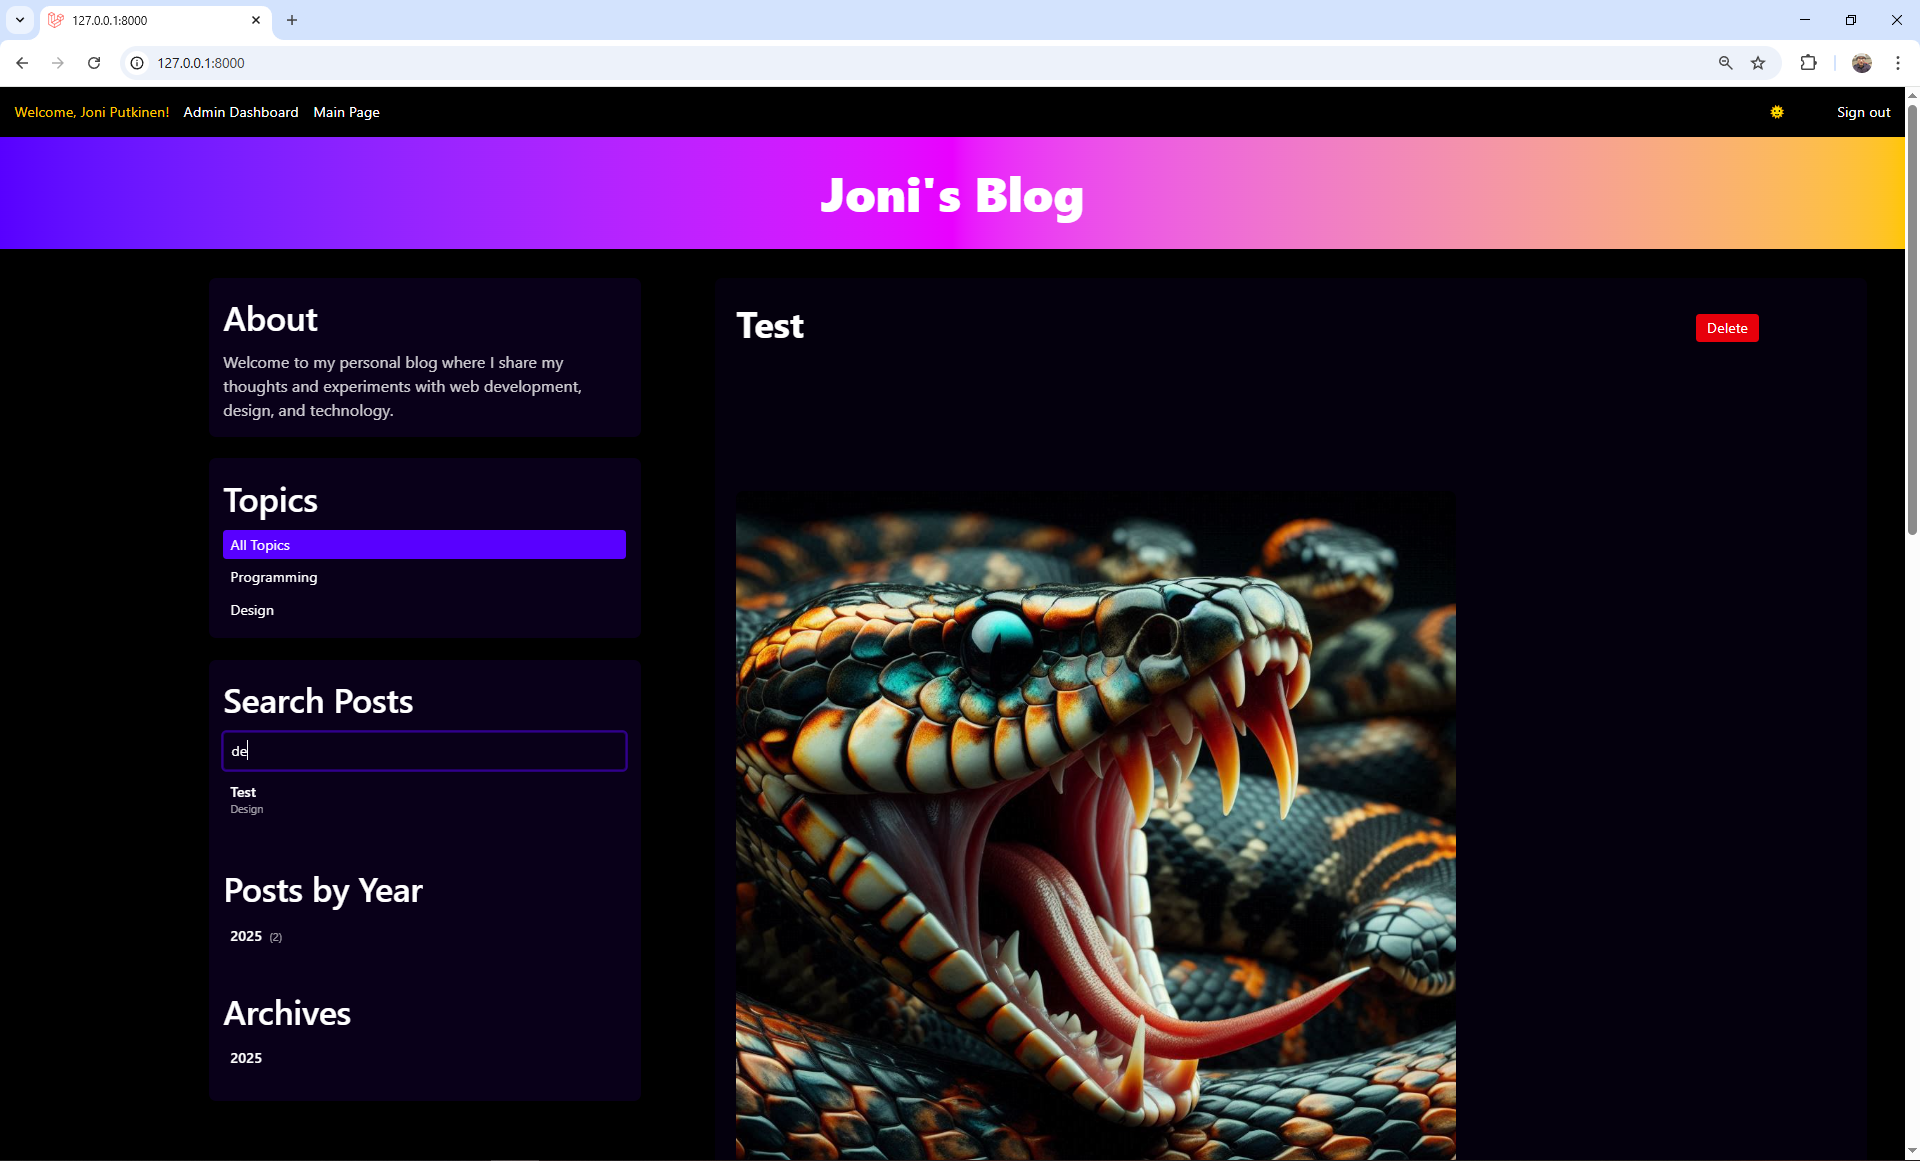
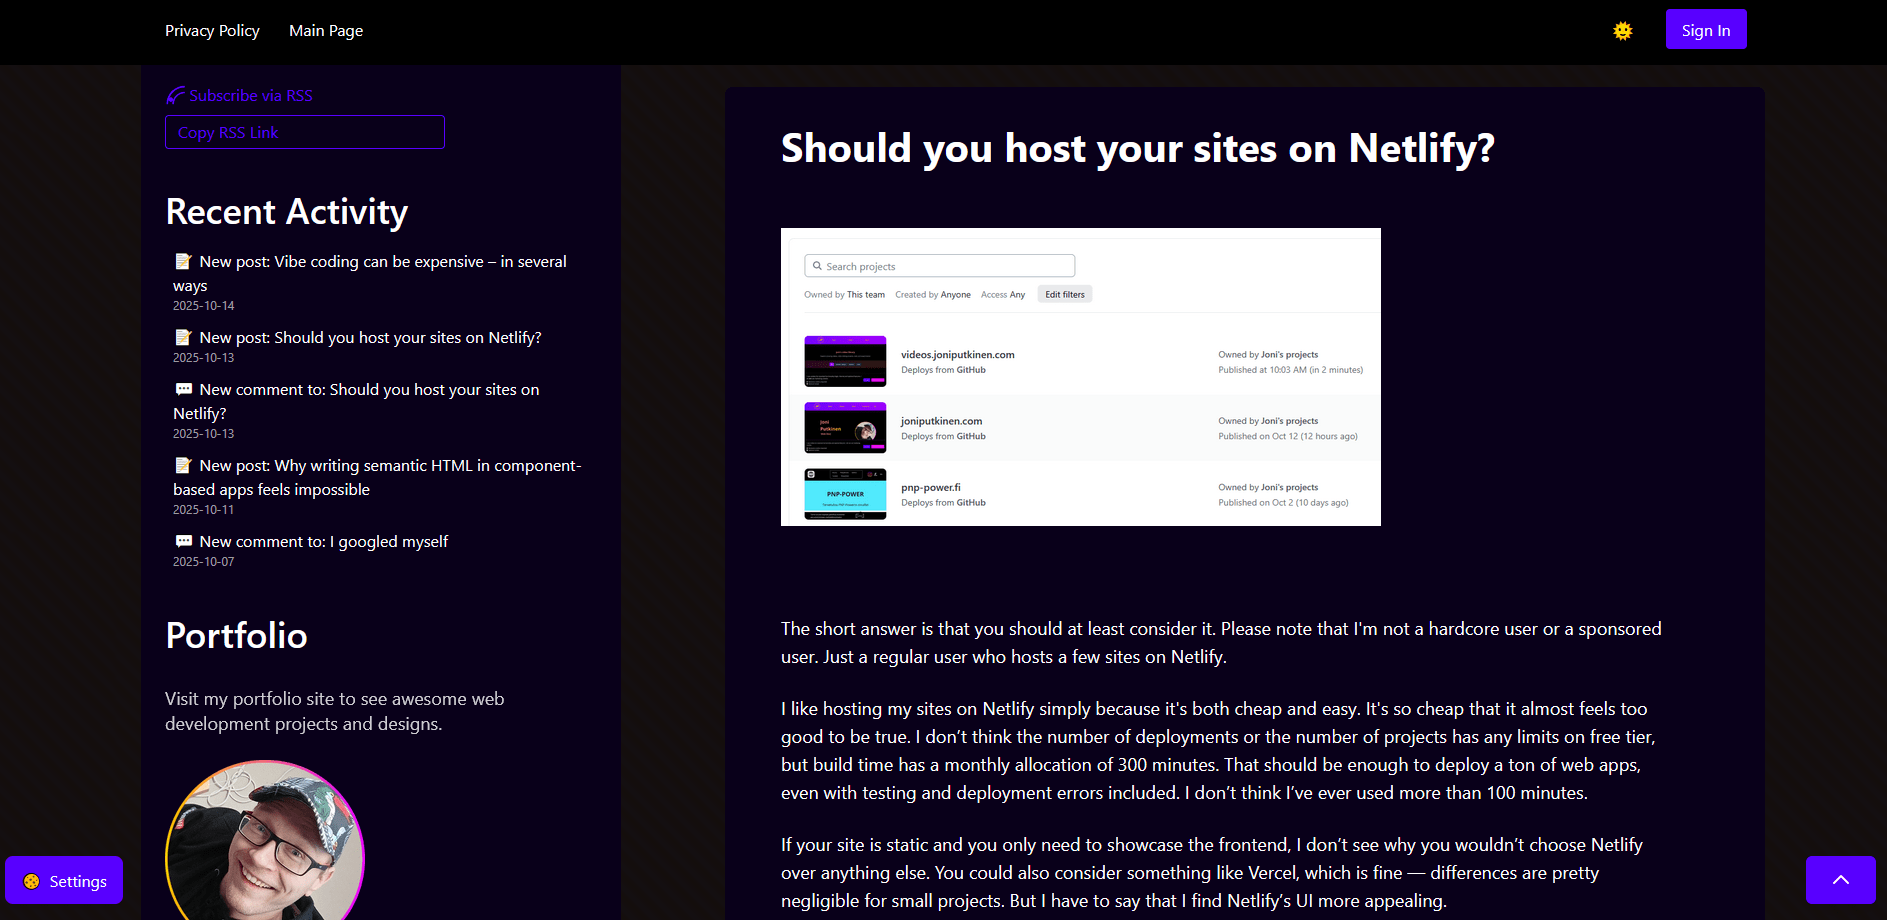
add updates

diff --git a/src/pages/Projects.jsx b/src/pages/Projects.jsx
@@ -4,7 +4,7 @@ import ShowcaseSection from '../components/ShowcaseSection'
 import ProjectCards from '../components/ProjectCards'
 import SkillsGrid from '../components/SkillsGrid'
 import NowWorking from '../components/NowWorking'
-import NowWorkingOn from '../components/NowWorkingOn'
+import RecentlyFinished from '../components/RecentlyFinished'
 import SkillsFocus from '../components/SkillsFocus'
 import BackToTopButton from '../components/BackToTopButton'
 import VideoEditing from '../components/VideoEditing'
@@ -16,7 +16,7 @@ export default function Projects() {
     <ProjectCards />
     <SkillsGrid />
     <NowWorking />
-    <NowWorkingOn />
+    <RecentlyFinished />
     <SkillsFocus />
     <VideoEditing />
     <BackToTopButton />

diff --git a/src/components/RecentlyFinished.jsx b/src/components/RecentlyFinished.jsx
@@ -2,7 +2,7 @@ import React from 'react'
 import '../styles/styles.css'
 import { useTranslation } from 'react-i18next';
 
-export default function NowWorkingOn() {
+export default function RecentlyFinished() {
 
     const { t } = useTranslation();
 
